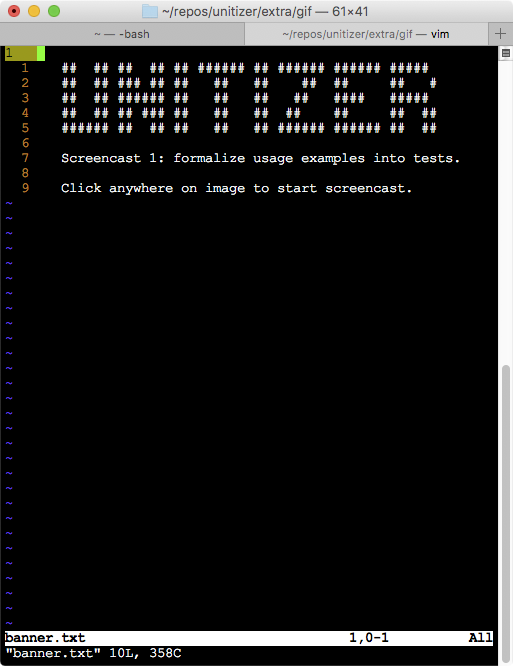
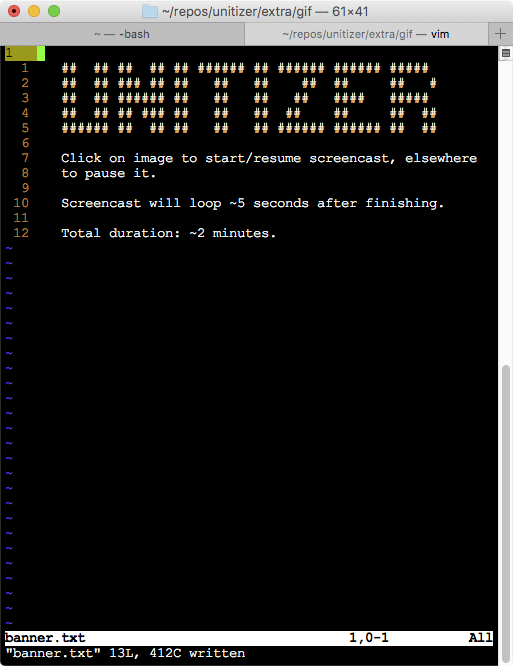
more readme tweaks

diff --git a/extra/gifshow.html b/extra/gifshow.html
@@ -1,42 +1,34 @@
 <html>
+  <head>
+    <style>
+    img {
+      box-shadow: 15px 15px 5px #CCC;
+      margin-left: 10px;
+    }
+    </style>
+  </head>
   <body>
-    <h1>Unitizer Screencasts</h1>
+    <h1>Unitizer Screencast</h1>
 
-    <h2>Part 1 - Turn Usage Examples into Tests</h2>
-
-    <p>In this screencast we take usage examples for our matrix rotation function and turn them into unit tests with <code>unitizer</code>.
+    <p style='max-width: 600px;'>In this screencast we take usage examples for a function that rotates matrices clock wise, turn them into unit tests, and use the tests to check for regressions as we optimize our code.
     </p>
-
     <img
       id="fin1png"
       src="gif/banner1.png"
       onclick="
         document.getElementById('fin1png').style.display = 'none';
         document.getElementById('fin1gif').style.display = 'block';
-        document.getElementById('fin2png').style.display = 'block';
-        document.getElementById('fin2gif').style.display = 'none';
+        document.getElementById('fin1gif').focus();
       "
       >
     </img>
-    <img id="fin1gif" src="gif/frames/fin1.gif" style='display: none;'></img>
-
-    <h2>Part 2 - Change Code and Check for Regressions</h2>
-
-    <p>We will optimize our rotation function, and use the tests we just created to ensure we don't introduce regressions.  First, we'll check that all tests are currently passing.
-    </p>
-
     <img
-      id="fin2png"
-      src="gif/banner2.png"
-      onclick="
-        document.getElementById('fin2png').style.display = 'none';
-        document.getElementById('fin2gif').style.display = 'block';
-        document.getElementById('fin1png').style.display = 'block';
+      id="fin1gif" src="gif/frames/fin.gif" style='display: none;'
+      tabindex=1
+      onblur="
         document.getElementById('fin1gif').style.display = 'none';
+        document.getElementById('fin1png').style.display = 'block';
       "
-    >
-    </img>
-    <img id="fin2gif" src="gif/frames/fin2.gif" style='display: none;'></img>
-
+    ></img>
   </body>
 </html>

diff --git a/README.md b/README.md
@@ -20,9 +20,7 @@ tested by *one* person.
 library(unitizer)
 demo(unitizer)
 ```
-Or check out the screencast to see `unitizer` in action:
-[![2 Minute Animated Gif
-Example](https://github.com/brodieG/unitizer/raw/rc/extra/gif/screencastintro.png)](https://github.com/brodieG/unitizer/blob/development/extra/gif/frames/fin.gif)
+Or check out the [screencast](https://github.com/brodieG/unitizer/blob/development/extra/gif/frames/fin.gif) to see `unitizer` in action.
 
 ## Why Another Testing Framework?
 
@@ -39,13 +37,22 @@ tests, all with a single keystroke.
 ### Streamlined Debugging
 
 Do you wish the nature of a test failure was more immediately obvious?
-That you could immediately start debugging your failed tests without additional
-set-up work?
 
 When tests fail, you are shown a proper
 [diff](https://github.com/brodieG/diffobj) so you can clearly identify _how_ the
-test failed, and you are dropped into the test environment so you can
-immediately debug _why_ it failed.
+test failed:
+
+![diff
+example](https://github.com/brodieG/unitizer/raw/rc/extra/gif/review1.png)
+
+Do you wish that you could immediately start debugging your failed tests without
+additional set-up work?
+
+`unitizer` immediately drops you in the test environment so you can immediately
+debug _why_ the test failed:
+
+![review
+example](https://github.com/brodieG/unitizer/raw/rc/extra/gif/review2.png)
 
 ### Fast Test Updates
 

diff --git a/extra/gifbuild.md b/extra/gifbuild.md
@@ -75,8 +75,8 @@ gifsicle preproc2.gif -d7 "#0-21" \
   -d200 "#239" -d200 "#240" -d7 "#241-254" -d200 "#255" -d200 "#256" \
   -d7 "#257-279" -d200 "#280" -d7 "#281-296" \
   -d100 "#297" -d7 "#298-325" -d200 "#326" -d7 "#327-339" -d200 "#340" \
-  -d7 "#341-364" \
-  -d100 "#365" -d7 "#366-367" -d200 "#368" -d7 "#369-370" -d200 "#371" \
+  -d7 "#341-364" -d100 "#365" -d7 "#366-367" -d100 "#368" -d200 "#369" \
+  -d7 "#370" -d200 "#371" \
   -d7 "#372" -d200 "#373" -d7 "#374-387" -d200 "#388" -d7 "#389-413" \
   -d200 "#414" -d7 "#415-417" -d200 "#419" -d7 "#419-443" -d100 "#444" \
   -d7 "#445" -d100 "#446" -d7 "#447-476" -d100 "#477" -d7 "#478-504" \
@@ -84,8 +84,8 @@ gifsicle preproc2.gif -d7 "#0-21" \
   -d7 "#533-535" -d200 "#536" -d7 "#537-573" -d200 "#574" -d7 "#575-590" \
   -d100 "#591" -d7 "#592" -d200 "#593" -d7 "#594-604" -d200 "#605" \
   -d7 "#606" -d200 "#607" -d7 "#608-629" -d300 "#630" -d7 "#631" -d100 "#632" \
-  -d7 "#633-647" -d200 "#648" \
-  --no-loopcount --optimize=3 > fin.gif &&
+  -d7 "#633-647" -d700 "#648" \
+  --optimize=3 > fin.gif &&
 rm preproc2.gif
 ```
 
